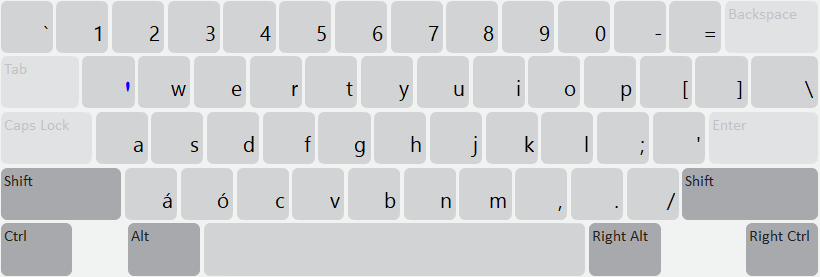
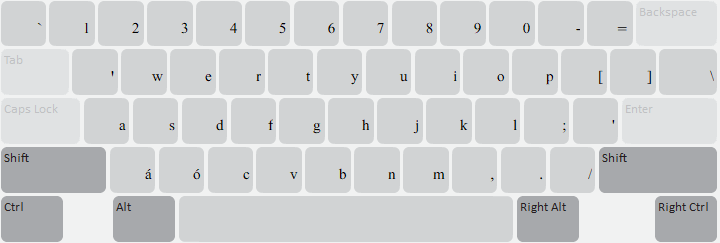
[sil_cipher_music] Update keyboard to support figure dash

diff --git a/release/sil/sil_cipher_music/source/welcome/welcome.htm b/release/sil/sil_cipher_music/source/welcome/welcome.htm
@@ -262,7 +262,10 @@ overdot <!-- Truly making underdot and overdot intuitive for Chinese would requi
 :	 </span><span lang="ca-ES">&#119041;</span><span lang="hr-HR"> </span><span lang="ca-ES">&#119043;
 &#119042; &#119046; &#119047;  </span></font>
 </p>
-
+<p class="western" style="margin-bottom: 0in"><a name="__DdeLink__1967_1727085788"></a>
+	<font face="Doulos SIL Cipher"><span lang="hr-HR">SHIFT + </span><span lang="en-US">_</span>  :	 </span><span lang="ca-ES">&#119041;</span><span lang="hr-HR"> </span><span lang="ca-ES">&#2012; (figure dash)</span></font>
+  </p>
+  
 <h4>Other instructions</h4>
 <p class="western" style="margin-bottom: 0in">  <font face="Doulos SIL Cipher"><span lang="en-US">Q
 QQ, q qq, X XX, x xx, Z ZZ, z zz</span><span lang="hr-HR"> :	</span><span lang="ca-ES">&#42891;

diff --git a/release/sil/sil_cipher_music/source/help/sil_cipher_music.php b/release/sil/sil_cipher_music/source/help/sil_cipher_music.php
@@ -241,6 +241,9 @@ overdot <!-- Truly making underdot and overdot intuitive for Chinese would requi
 :	 </span><span lang="ca-ES">&#119041;</span><span lang="hr-HR"> </span><span lang="ca-ES">&#119043;
 &#119042; &#119046; &#119047;  </span></font>
 </p>
+<p class="western" style="margin-bottom: 0in"><a name="__DdeLink__1967_1727085788"></a>
+	<font face="Doulos SIL Cipher"><span lang="hr-HR">SHIFT + </span><span lang="en-US">_</span>  :	 </span><span lang="ca-ES">&#119041;</span><span lang="hr-HR"> </span><span lang="ca-ES">&#2012; (figure dash)</span></font>
+  </p>
 
 <h4>Other instructions</h4>
 <p class="western" style="margin-bottom: 0in">  <font face="Doulos SIL Cipher"><span lang="en-US">Q

diff --git a/release/sil/sil_cipher_music/HISTORY.md b/release/sil/sil_cipher_music/HISTORY.md
@@ -1,6 +1,11 @@
 Cipher Music (SIL) Change History
 =================================
 
+1.2 (2024-06-24)
+----------------
+* Added ability to type U+2012 FIGURE DASH on SHIFT + _ key 
+  (this is to indicate extended duration for jianpu)
+
 1.1.2 (2023-11-30)
 ----------------
 * Use shared font instead of local

diff --git a/release/sil/sil_cipher_music/LICENSE.md b/release/sil/sil_cipher_music/LICENSE.md
@@ -1,6 +1,6 @@
 The MIT License (MIT)
 
-Copyright © 2009-2023 SIL International
+Copyright © 2009-2024 SIL International
 
 Permission is hereby granted, free of charge, to any person obtaining a copy
 of this software and associated documentation files (the "Software"), to deal
